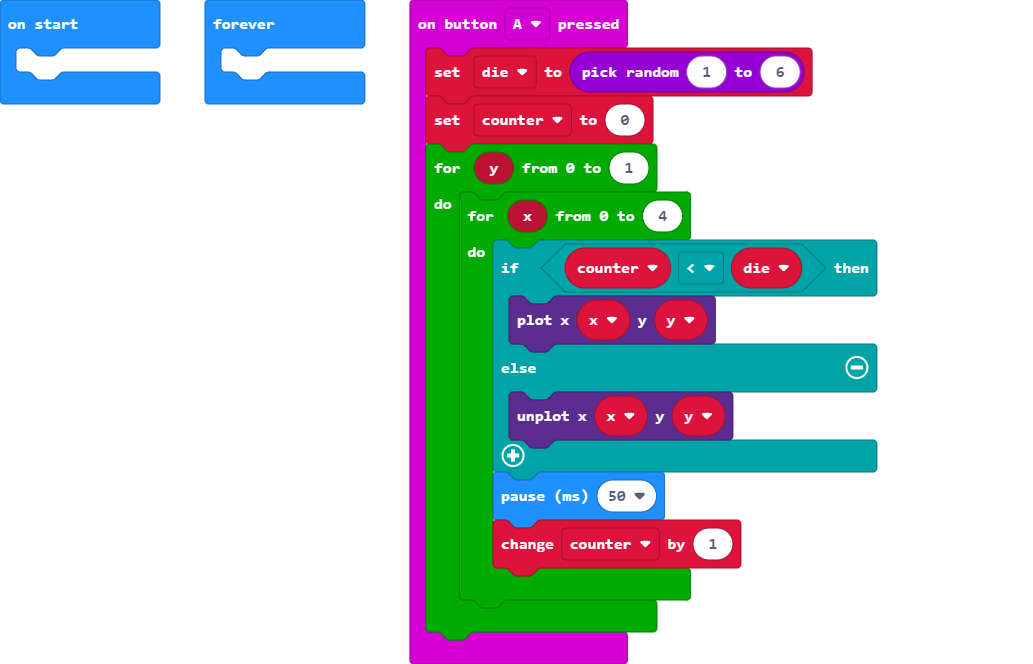
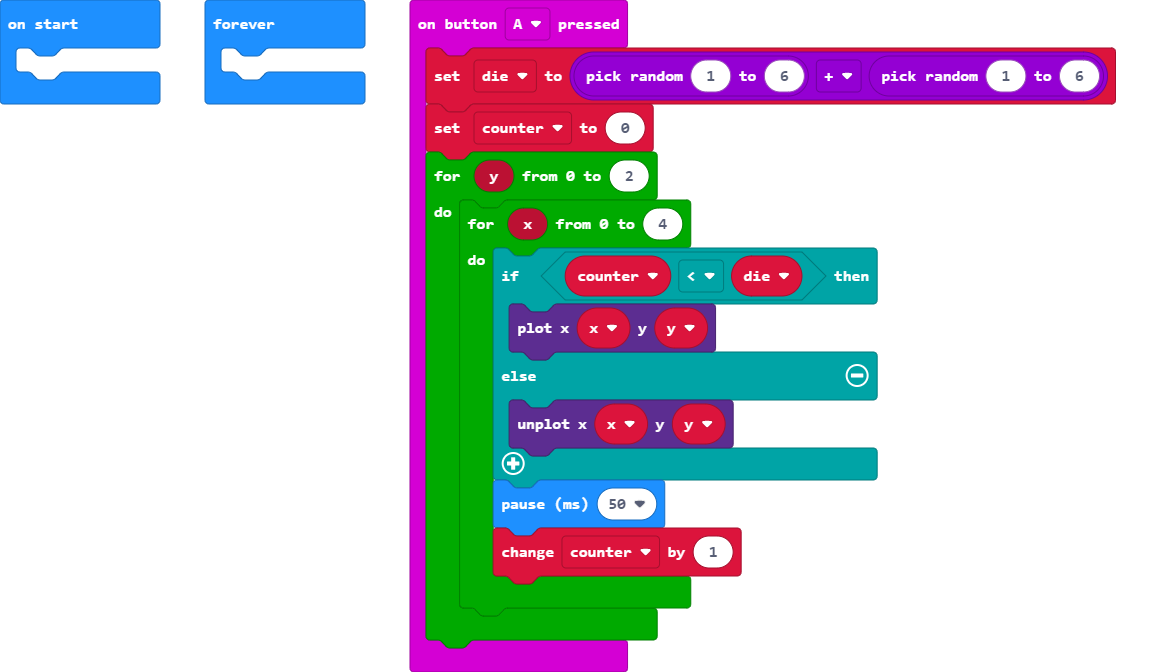
Update main.blocks, main.ts

Changed region(s): [[0.0, 0.0, 0.9603, 1.0]]

diff --git a/main.ts b/main.ts
@@ -1,9 +1,9 @@
 let die = 0
 let counter = 0
 input.onButtonPressed(Button.A, function () {
-    die = randint(1, 6)
+    die = randint(1, 6) + randint(1, 6)
     counter = 0
-    for (let y = 0; y <= 1; y++) {
+    for (let y = 0; y <= 2; y++) {
         for (let x = 0; x <= 4; x++) {
             if (counter < die) {
                 led.plot(x, y)
